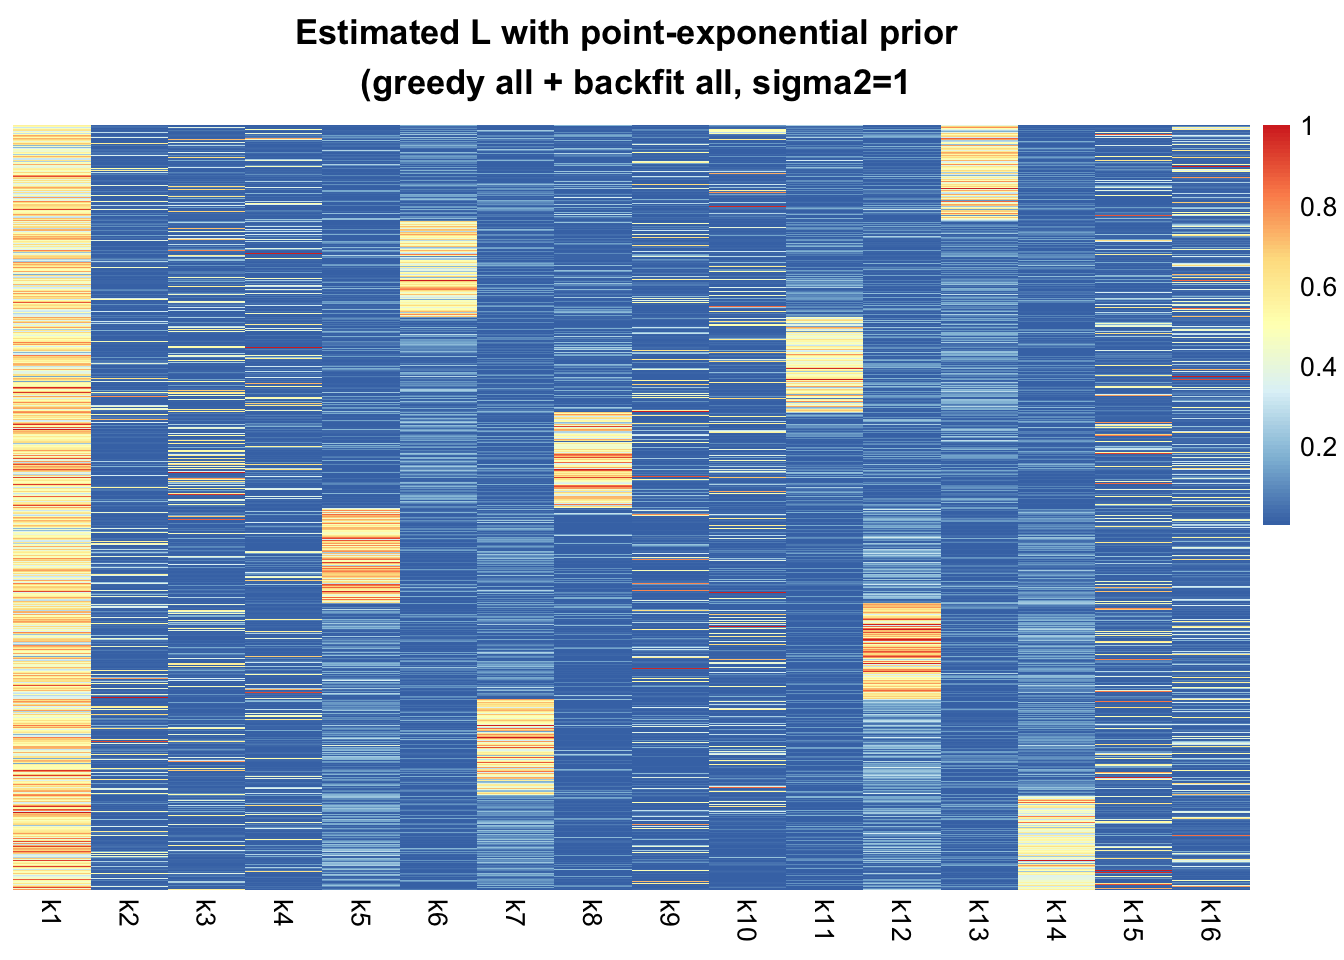
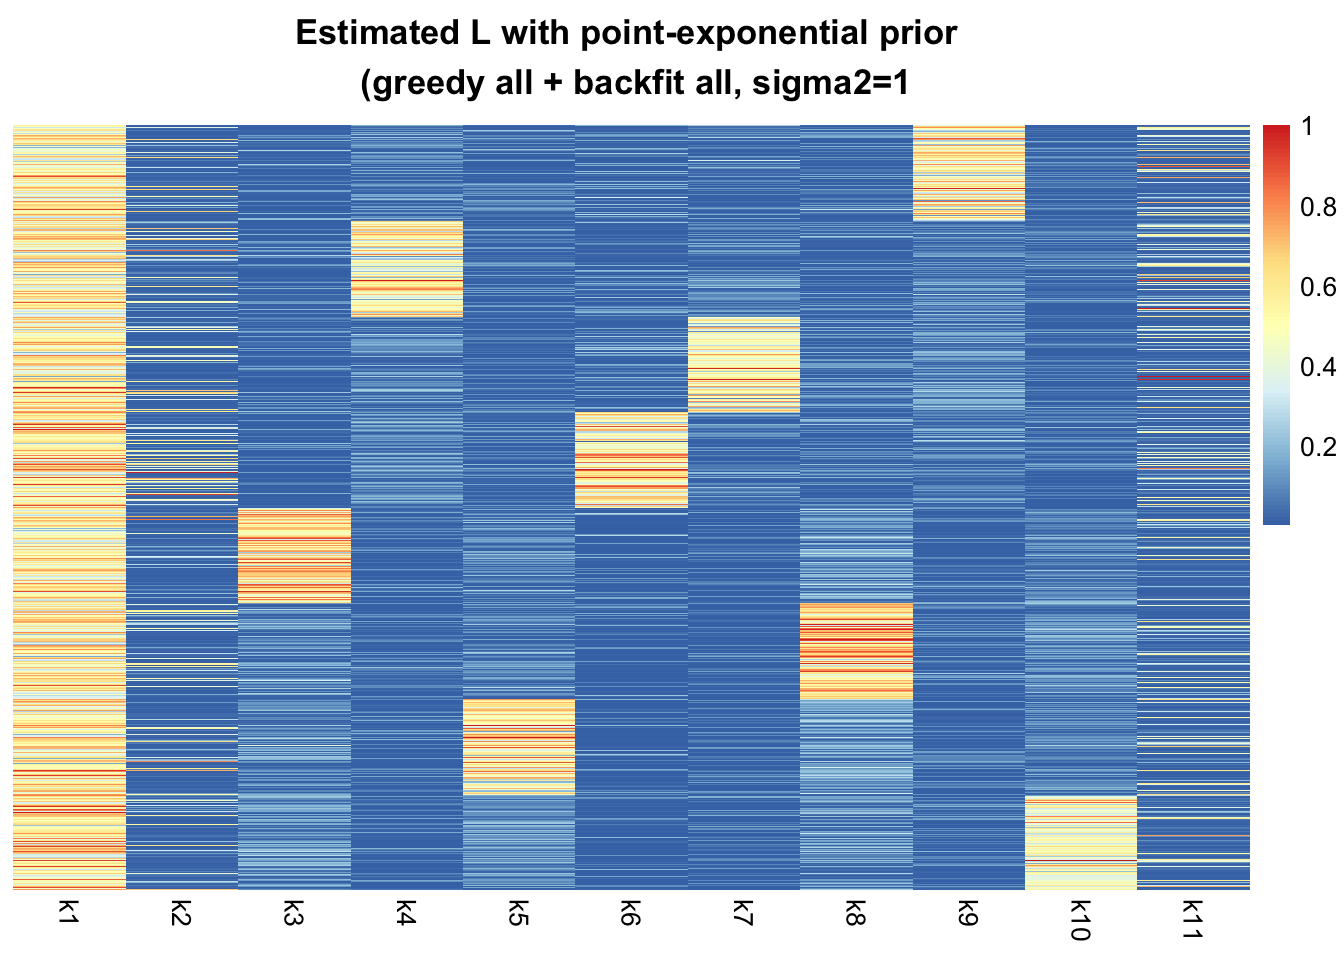
Build site.

diff --git a/docs/simulations3_update.html b/docs/simulations3_update.html
@@ -11,7 +11,7 @@
 
 <meta name="author" content="Yusha Liu" />
 
-<meta name="date" content="2021-10-14" />
+<meta name="date" content="2021-10-20" />
 
 <title>Application of SNN to covariance matrix of simulated Gaussian data with correlated factors</title>
 
@@ -360,7 +360,7 @@ div.tocify {
 
 <h1 class="title toc-ignore">Application of SNN to covariance matrix of simulated Gaussian data with correlated factors</h1>
 <h4 class="author">Yusha Liu</h4>
-<h4 class="date">2021-10-14</h4>
+<h4 class="date">2021-10-20</h4>
 
 </div>
 
@@ -385,7 +385,7 @@ div.tocify {
 <div class="tab-content">
 <div id="summary" class="tab-pane fade in active">
 <p>
-<strong>Last updated:</strong> 2021-10-17
+<strong>Last updated:</strong> 2021-10-20
 </p>
 <p>
 <strong>Checks:</strong> <span class="glyphicon glyphicon-ok text-success" aria-hidden="true"></span> 7 <span class="glyphicon glyphicon-exclamation-sign text-danger" aria-hidden="true"></span> 0
@@ -476,16 +476,16 @@ This reproducible <a href="http://rmarkdown.rstudio.com">R Markdown</a> analysis
 <div class="panel panel-default">
 <div class="panel-heading">
 <p class="panel-title">
-<a data-toggle="collapse" data-parent="#workflowr-checks" href="#strongRepositoryversionstrongahrefhttpsgithubcomYushaLiusinglecellcancertreef4baf2c59f8a4767bcbb24afbb90eb5f35274827targetblankf4baf2ca"> <span class="glyphicon glyphicon-ok text-success" aria-hidden="true"></span> <strong>Repository version:</strong> <a href="https://github.com/YushaLiu/single_cell_cancer/tree/f4baf2c59f8a4767bcbb24afbb90eb5f35274827" target="_blank">f4baf2c</a> </a>
+<a data-toggle="collapse" data-parent="#workflowr-checks" href="#strongRepositoryversionstrongahrefhttpsgithubcomYushaLiusinglecellcancertree3ceb0b10c239030d7219f300da082b2b6b7b3161targetblank3ceb0b1a"> <span class="glyphicon glyphicon-ok text-success" aria-hidden="true"></span> <strong>Repository version:</strong> <a href="https://github.com/YushaLiu/single_cell_cancer/tree/3ceb0b10c239030d7219f300da082b2b6b7b3161" target="_blank">3ceb0b1</a> </a>
 </p>
 </div>
[2 lines of base64/hex data omitted]
 <div class="panel-body">
 <p>
 Great! You are using Git for version control. Tracking code development and connecting the code version to the results is critical for reproducibility.
 </p>
 <p>
-The results in this page were generated with repository version <a href="https://github.com/YushaLiu/single_cell_cancer/tree/f4baf2c59f8a4767bcbb24afbb90eb5f35274827" target="_blank">f4baf2c</a>. See the <em>Past versions</em> tab to see a history of the changes made to the R Markdown and HTML files.
+The results in this page were generated with repository version <a href="https://github.com/YushaLiu/single_cell_cancer/tree/3ceb0b10c239030d7219f300da082b2b6b7b3161" target="_blank">3ceb0b1</a>. See the <em>Past versions</em> tab to see a history of the changes made to the R Markdown and HTML files.
 </p>
 <p>
 Note that you need to be careful to ensure that all relevant files for the analysis have been committed to Git prior to generating the results (you can use <code>wflow_publish</code> or <code>wflow_git_commit</code>). workflowr only checks the R Markdown file, but you know if there are other scripts or data files that it depends on. Below is the status of the Git repository when the results were generated:
@@ -498,12 +498,11 @@ Ignored files:
 
 Untracked files:
     Untracked:  code/simulations.R
-    Untracked:  code/simulations3_update.R
     Untracked:  output/simulations3_update_XXt_fit3_sigma_v1.Rds
     Untracked:  output/simulations3_update_XXt_fit3_sigma_v2.Rds
 
 Unstaged changes:
-    Modified:   code/util.R
+    Modified:   code/simulations3_update.R
 
 </code></pre>
 <p>
@@ -542,6 +541,40 @@ Message
 </tr>
 </thead>
 <tbody>
+<tr>
+<td>
+Rmd
+</td>
+<td>
+<a href="https://github.com/YushaLiu/single_cell_cancer/blob/3ceb0b10c239030d7219f300da082b2b6b7b3161/analysis/simulations3_update.Rmd" target="_blank">3ceb0b1</a>
+</td>
+<td>
+yushaliu
+</td>
+<td>
+2021-10-20
+</td>
+<td>
+small edits to the implementation of covariance factorization
+</td>
+</tr>
+<tr>
+<td>
+html
+</td>
+<td>
+<a href="https://rawcdn.githack.com/YushaLiu/single_cell_cancer/711efbb74ec8d77c7c2d77cfb5f8b33af200b59b/docs/simulations3_update.html" target="_blank">711efbb</a>
+</td>
+<td>
+yushaliu
+</td>
+<td>
+2021-10-17
+</td>
+<td>
+Build site.
+</td>
+</tr>
 <tr>
 <td>
 Rmd
@@ -851,6 +884,21 @@ Backfitting 16 factors (tolerance: 9.54e-03)...
   Difference between iterations is within 1.0e-02...
 Wrapping up...
 Done.</code></pre>
+<pre class="r"><code>### select a subset of factors and refit
+kset &lt;- (length(fit2$pve) - rank(fit2$pve) &lt; 11) &amp; (fit2$pve &gt; 0)
+kall &lt;- 1:fit2$n.factors
+fit2 &lt;- flash.remove.factors(fit2, kset=kall[!kset])
+fit2 &lt;- fit.ebcovmf(dat=XXt, fl=fit2, prior=as.prior(ebnm::ebnm_point_exponential, sign = 1))$fl</code></pre>
+<pre><code>Backfitting 11 factors (tolerance: 9.54e-03)...
+  Difference between iterations is within 1.0e+01...
+  Difference between iterations is within 1.0e+00...
+  Difference between iterations is within 1.0e-01...
+  Difference between iterations is within 1.0e-02...
+Wrapping up...
+Done.
+Backfitting 11 factors (tolerance: 9.54e-03)...
+Wrapping up...
+Done.</code></pre>
 <pre class="r"><code>### look at the estimates of L
 fit2.L &lt;- fit2$loadings.pm[[1]]
 fit2.L &lt;- fit2.L[, fit2$pve &gt; 0]
@@ -908,6 +956,43 @@ fit3.L &lt;- t(t(fit3.L)/apply(fit3.L, 2, max))
 colnames(fit3.L) &lt;- paste0(&quot;k&quot;, 1:ncol(fit3.L))
 pheatmap(fit3.L, show_rownames = FALSE, cluster_rows = FALSE, cluster_cols = FALSE, main=&quot;Estimated L with point-exponential prior \n (iteratively greedy + backfit, sigma2=1)&quot;)</code></pre>
 <p><img src="figure/simulations3_update.Rmd/unnamed-chunk-4-1.png" width="672" style="display: block; margin: auto;" /></p>
+<p>
+<button type="button" class="btn btn-default btn-xs btn-workflowr btn-workflowr-fig" data-toggle="collapse" data-target="#fig-unnamed-chunk-4-1">
+Past versions of unnamed-chunk-4-1.png
+</button>
+</p>
+<div id="fig-unnamed-chunk-4-1" class="collapse">
+<div class="table-responsive">
+<table class="table table-condensed table-hover">
+<thead>
+<tr>
+<th>
+Version
+</th>
+<th>
+Author
+</th>
+<th>
+Date
+</th>
+</tr>
+</thead>
+<tbody>
+<tr>
+<td>
+<a href="https://github.com/YushaLiu/single_cell_cancer/blob/711efbb74ec8d77c7c2d77cfb5f8b33af200b59b/docs/figure/simulations3_update.Rmd/unnamed-chunk-4-1.png" target="_blank">711efbb</a>
+</td>
+<td>
+yushaliu
+</td>
+<td>
+2021-10-17
+</td>
+</tr>
+</tbody>
+</table>
+</div>
+</div>
 </div>
 <div id="compare-the-fits-to-the-covariance-matrix" class="section level3">
 <h3>Compare the fits to the covariance matrix</h3>
@@ -915,14 +1000,14 @@ pheatmap(fit3.L, show_rownames = FALSE, cluster_rows = FALSE, cluster_cols = FAL
 fit1$n.factors</code></pre>
 <pre><code>[1] 9</code></pre>
 <pre class="r"><code>fit2$n.factors</code></pre>
-<pre><code>[1] 16</code></pre>
+<pre><code>[1] 11</code></pre>
 <pre class="r"><code>fit3$n.factors</code></pre>
 <pre><code>[1] 11</code></pre>
 <pre class="r"><code>### elbo
 fit1$elbo</code></pre>
 <pre><code>[1] 1493690</code></pre>
 <pre class="r"><code>fit2$elbo</code></pre>
-<pre><code>[1] 1494203</code></pre>
+<pre><code>[1] 1493858</code></pre>
 <pre class="r"><code>fit3$elbo</code></pre>
 <pre><code>[1] 1493824</code></pre>
 </div>
@@ -988,6 +1073,17 @@ Date
 </tr>
 </thead>
 <tbody>
+<tr>
+<td>
+<a href="https://github.com/YushaLiu/single_cell_cancer/blob/711efbb74ec8d77c7c2d77cfb5f8b33af200b59b/docs/figure/simulations3_update.Rmd/unnamed-chunk-6-1.png" target="_blank">711efbb</a>
+</td>
+<td>
+yushaliu
+</td>
+<td>
+2021-10-17
+</td>
+</tr>
 <tr>
 <td>
 <a href="https://github.com/YushaLiu/single_cell_cancer/blob/c422dc9c8cf3e53f6a090f4a545a612c5b0de423/docs/figure/simulations3_update.Rmd/unnamed-chunk-6-1.png" target="_blank">c422dc9</a>
@@ -1078,6 +1174,20 @@ Done.
 Backfitting 12 factors (tolerance: 9.54e-03)...
 Wrapping up...
 Done.</code></pre>
+<pre class="r"><code>### select a subset of factors and refit
+kset &lt;- (length(fit2$pve) - rank(fit2$pve) &lt; 11) &amp; (fit2$pve &gt; 0)
+kall &lt;- 1:fit2$n.factors
+fit2 &lt;- flash.remove.factors(fit2, kset=kall[!kset])
+fit2 &lt;- fit.ebcovmf(dat=XXt, fl=fit2, prior=as.prior(ebnm::ebnm_point_exponential, sign = 1))$fl</code></pre>
+<pre><code>Backfitting 11 factors (tolerance: 9.54e-03)...
+  Difference between iterations is within 1.0e+00...
+  Difference between iterations is within 1.0e-01...
+  Difference between iterations is within 1.0e-02...
+Wrapping up...
+Done.
+Backfitting 11 factors (tolerance: 9.54e-03)...
+Wrapping up...
+Done.</code></pre>
 <pre class="r"><code>### look at the estimates of L
 fit2.L &lt;- fit2$loadings.pm[[1]]
 fit2.L &lt;- fit2.L[, fit2$pve &gt; 0]
@@ -1085,6 +1195,43 @@ fit2.L &lt;- t(t(fit2.L)/apply(fit2.L, 2, max))
 colnames(fit2.L) &lt;- paste0(&quot;k&quot;, 1:ncol(fit2.L))
 pheatmap(fit2.L, show_rownames = FALSE, cluster_rows = FALSE, cluster_cols = FALSE, main=&quot;Estimated L with point-exponential prior \n (greedy all + backfit all, sigma2=0.5&quot;)</code></pre>
 <p><img src="figure/simulations3_update.Rmd/unnamed-chunk-7-1.png" width="672" style="display: block; margin: auto;" /></p>
+<p>
+<button type="button" class="btn btn-default btn-xs btn-workflowr btn-workflowr-fig" data-toggle="collapse" data-target="#fig-unnamed-chunk-7-1">
+Past versions of unnamed-chunk-7-1.png
+</button>
+</p>
+<div id="fig-unnamed-chunk-7-1" class="collapse">
+<div class="table-responsive">
+<table class="table table-condensed table-hover">
+<thead>
+<tr>
+<th>
+Version
+</th>
+<th>
+Author
+</th>
+<th>
+Date
+</th>
+</tr>
+</thead>
+<tbody>
+<tr>
+<td>
+<a href="https://github.com/YushaLiu/single_cell_cancer/blob/711efbb74ec8d77c7c2d77cfb5f8b33af200b59b/docs/figure/simulations3_update.Rmd/unnamed-chunk-7-1.png" target="_blank">711efbb</a>
+</td>
+<td>
+yushaliu
+</td>
+<td>
+2021-10-17
+</td>
+</tr>
+</tbody>
+</table>
+</div>
+</div>
 </div>
 <div id="iteratively-add-each-factor-greedily-then-take-nonnegative-transform-and-backfit-that-factor-sigma20.5" class="section level3">
 <h3>Iteratively add each factor greedily, then take nonnegative transform and backfit that factor (sigma2=0.5)</h3>
@@ -1098,6 +1245,43 @@ fit3.L &lt;- t(t(fit3.L)/apply(fit3.L, 2, max))
 colnames(fit3.L) &lt;- paste0(&quot;k&quot;, 1:ncol(fit3.L))
 pheatmap(fit3.L, show_rownames = FALSE, cluster_rows = FALSE, cluster_cols = FALSE, main=&quot;Estimated L with point-exponential prior \n (iteratively greedy + backfit, sigma2=0.5)&quot;)</code></pre>
 <p><img src="figure/simulations3_update.Rmd/unnamed-chunk-8-1.png" width="672" style="display: block; margin: auto;" /></p>
+<p>
+<button type="button" class="btn btn-default btn-xs btn-workflowr btn-workflowr-fig" data-toggle="collapse" data-target="#fig-unnamed-chunk-8-1">
+Past versions of unnamed-chunk-8-1.png
+</button>
+</p>
+<div id="fig-unnamed-chunk-8-1" class="collapse">
+<div class="table-responsive">
+<table class="table table-condensed table-hover">
+<thead>
+<tr>
+<th>
+Version
+</th>
+<th>
+Author
+</th>
+<th>
+Date
+</th>
+</tr>
+</thead>
+<tbody>
+<tr>
+<td>
+<a href="https://github.com/YushaLiu/single_cell_cancer/blob/711efbb74ec8d77c7c2d77cfb5f8b33af200b59b/docs/figure/simulations3_update.Rmd/unnamed-chunk-8-1.png" target="_blank">711efbb</a>
+</td>
+<td>
+yushaliu
+</td>
+<td>
+2021-10-17
+</td>
+</tr>
+</tbody>
+</table>
+</div>
+</div>
 </div>
 <div id="compare-the-fits-to-the-covariance-matrix-1" class="section level3">
 <h3>Compare the fits to the covariance matrix</h3>
@@ -1105,14 +1289,14 @@ pheatmap(fit3.L, show_rownames = FALSE, cluster_rows = FALSE, cluster_cols = FAL
 fit1$n.factors</code></pre>
 <pre><code>[1] 10</code></pre>
 <pre class="r"><code>fit2$n.factors</code></pre>
-<pre><code>[1] 12</code></pre>
+<pre><code>[1] 11</code></pre>
 <pre class="r"><code>fit3$n.factors</code></pre>
 <pre><code>[1] 11</code></pre>
 <pre class="r"><code>### elbo
 fit1$elbo</code></pre>
 <pre><code>[1] 1942101</code></pre>
 <pre class="r"><code>fit2$elbo</code></pre>
-<pre><code>[1] 1941704</code></pre>
+<pre><code>[1] 1941613</code></pre>
 <pre class="r"><code>fit3$elbo</code></pre>
 <pre><code>[1] 1942274</code></pre>
 <br>
